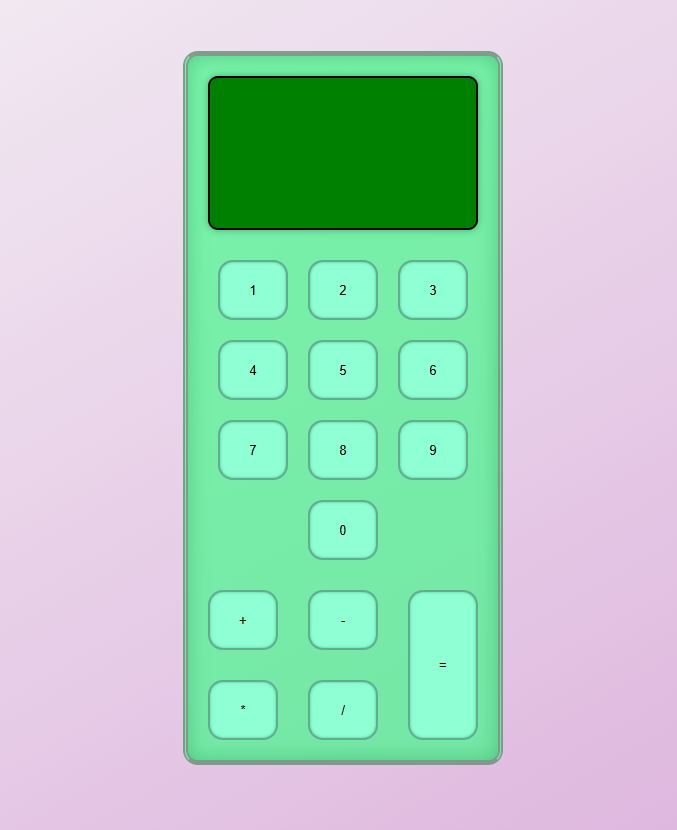
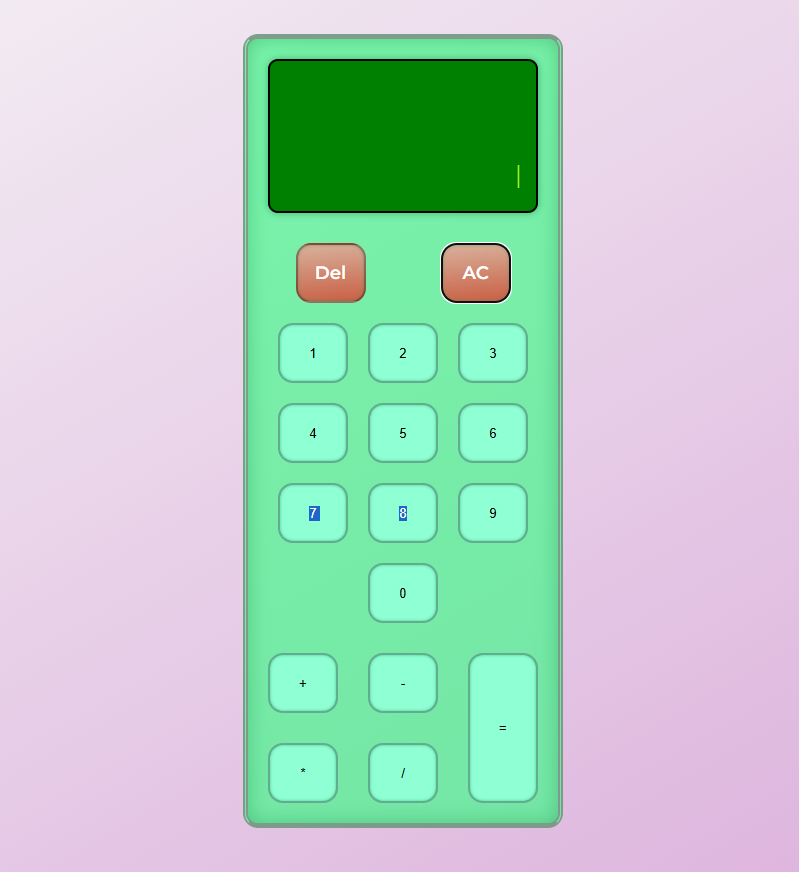
ajt calculette boutons del et ca

Changed region(s): [[0.2482, 0.0301, 0.7445, 0.9639]]

diff --git a/frontendRoutes/CalculatriceJs/calc.html b/frontendRoutes/CalculatriceJs/calc.html
@@ -10,28 +10,32 @@
     <div class="calculette">
 
         <div class="ecran">
-            <p class="ecrit"></p>
+            <p class="ecrit"></p><p class="curseur">|</p>
         </div>
 
         <div class="touchesContainer">
+            <div class="suppCont">
+                <button id="delete">Del</button>
+                <button id="delAll">AC</button>
+            </div>
             <div class="nombres">
-                <button value="1">1</button>
-                <button value="2">2</button>
-                <button value="3">3</button>
-                <button value="4">4</button>
-                <button value="5">5</button>
-                <button value="6">6</button>
-                <button value="7">7</button>
-                <button value="8">8</button>
-                <button value="9">9</button>
+                <button>1</button>
+                <button>2</button>
+                <button>3</button>
+                <button>4</button>
+                <button>5</button>
+                <button>6</button>
+                <button>7</button>
+                <button>8</button>
+                <button>9</button>
             </div>
             <div class="operators">
-                <button class="zero" value="0">0</button>
-                <button class="plus" value="+">+</button>
-                <button value="-">-</button>
-                <button class="fois" value="*">*</button>
-                <button value="/">/</button>
-                <button class="egal" value="=">=</button>
+                <button class="zero">0</button>
+                <button class="plus">+</button>
+                <button>-</button>
+                <button class="fois">*</button>
+                <button>/</button>
+                <button class="egal">=</button>
             </div>
         </div>
 

diff --git a/frontendRoutes/CalculatriceJs/calc.css b/frontendRoutes/CalculatriceJs/calc.css
@@ -1,3 +1,5 @@
+@import url('https://fonts.googleapis.com/css2?family=Kanit:ital,wght@0,100;0,200;0,300;0,400;0,500;0,600;0,700;0,800;0,900;1,100;1,200;1,300;1,400;1,500;1,600;1,700;1,800;1,900&family=Montserrat:ital,wght@0,100..900;1,100..900&family=Sixtyfour+Convergence&display=swap');
+
 * {
     margin: 0;
     padding: 0;
@@ -29,6 +31,19 @@ body {
     border: 5px rgba(128, 128, 128, 0.74);
     border-style: solid double;
     border-radius: 15px;
+}
+
+.suppCont {
+    display: flex;
+    justify-content: space-around;
+}
+
+.suppCont button {
+    background: linear-gradient(175deg, rgb(255, 139, 139, 0.7) 10%, rgba(255, 0, 0, 0.6) 100%);
+    color: white;
+    font-family: Montserrat, Arial, Helvetica, sans-serif;
+    font-weight: 600;
+    font-size: large;
 }
 
 .nombres, .operators {
@@ -81,7 +96,7 @@ button:hover {
     position: relative;
 }
 
-.ecrit {
+.ecrit, .curseur {
     margin: 20px;
     position: absolute;
     bottom: 0;
@@ -89,3 +104,26 @@ button:hover {
     font-size: 25px;
     color: greenyellow;
 }
+
+.curseur {
+    margin: 20px 15px 22px 20px;
+    animation: clignoter 1s infinite linear;
+}
+
+@keyframes clignoter {
+    0% {
+      opacity: 1;
+    }
+    49% {
+      opacity: 1;
+    }
+    50% {
+      opacity: 0;
+    }
+    99% {
+      opacity: 0;
+    }
+    100% {
+      opacity: 1;
+    }
+  }

diff --git a/frontendRoutes/CalculatriceJs/calc.js b/frontendRoutes/CalculatriceJs/calc.js
@@ -6,7 +6,17 @@ buttons.forEach(button => {
     button.addEventListener('click', function() {
         const lastChar = ecrit.innerText.slice(-1);
 
-        if (['+', '-', '*', '/'].includes(lastChar) && ['+', '-', '*', '/'].includes(button.innerText)) {
+        if (button.innerText === 'Del') {
+            ecrit.innerText = ecrit.innerText.slice(0, -1);
+            return;
+        }
+
+        else if (button.innerText === 'AC') {
+            ecrit.innerText = '';
+            return;
+        }
+
+        else if (['+', '-', '*', '/'].includes(lastChar) && ['+', '-', '*', '/'].includes(button.innerText)) {
             return; 
         }
 
